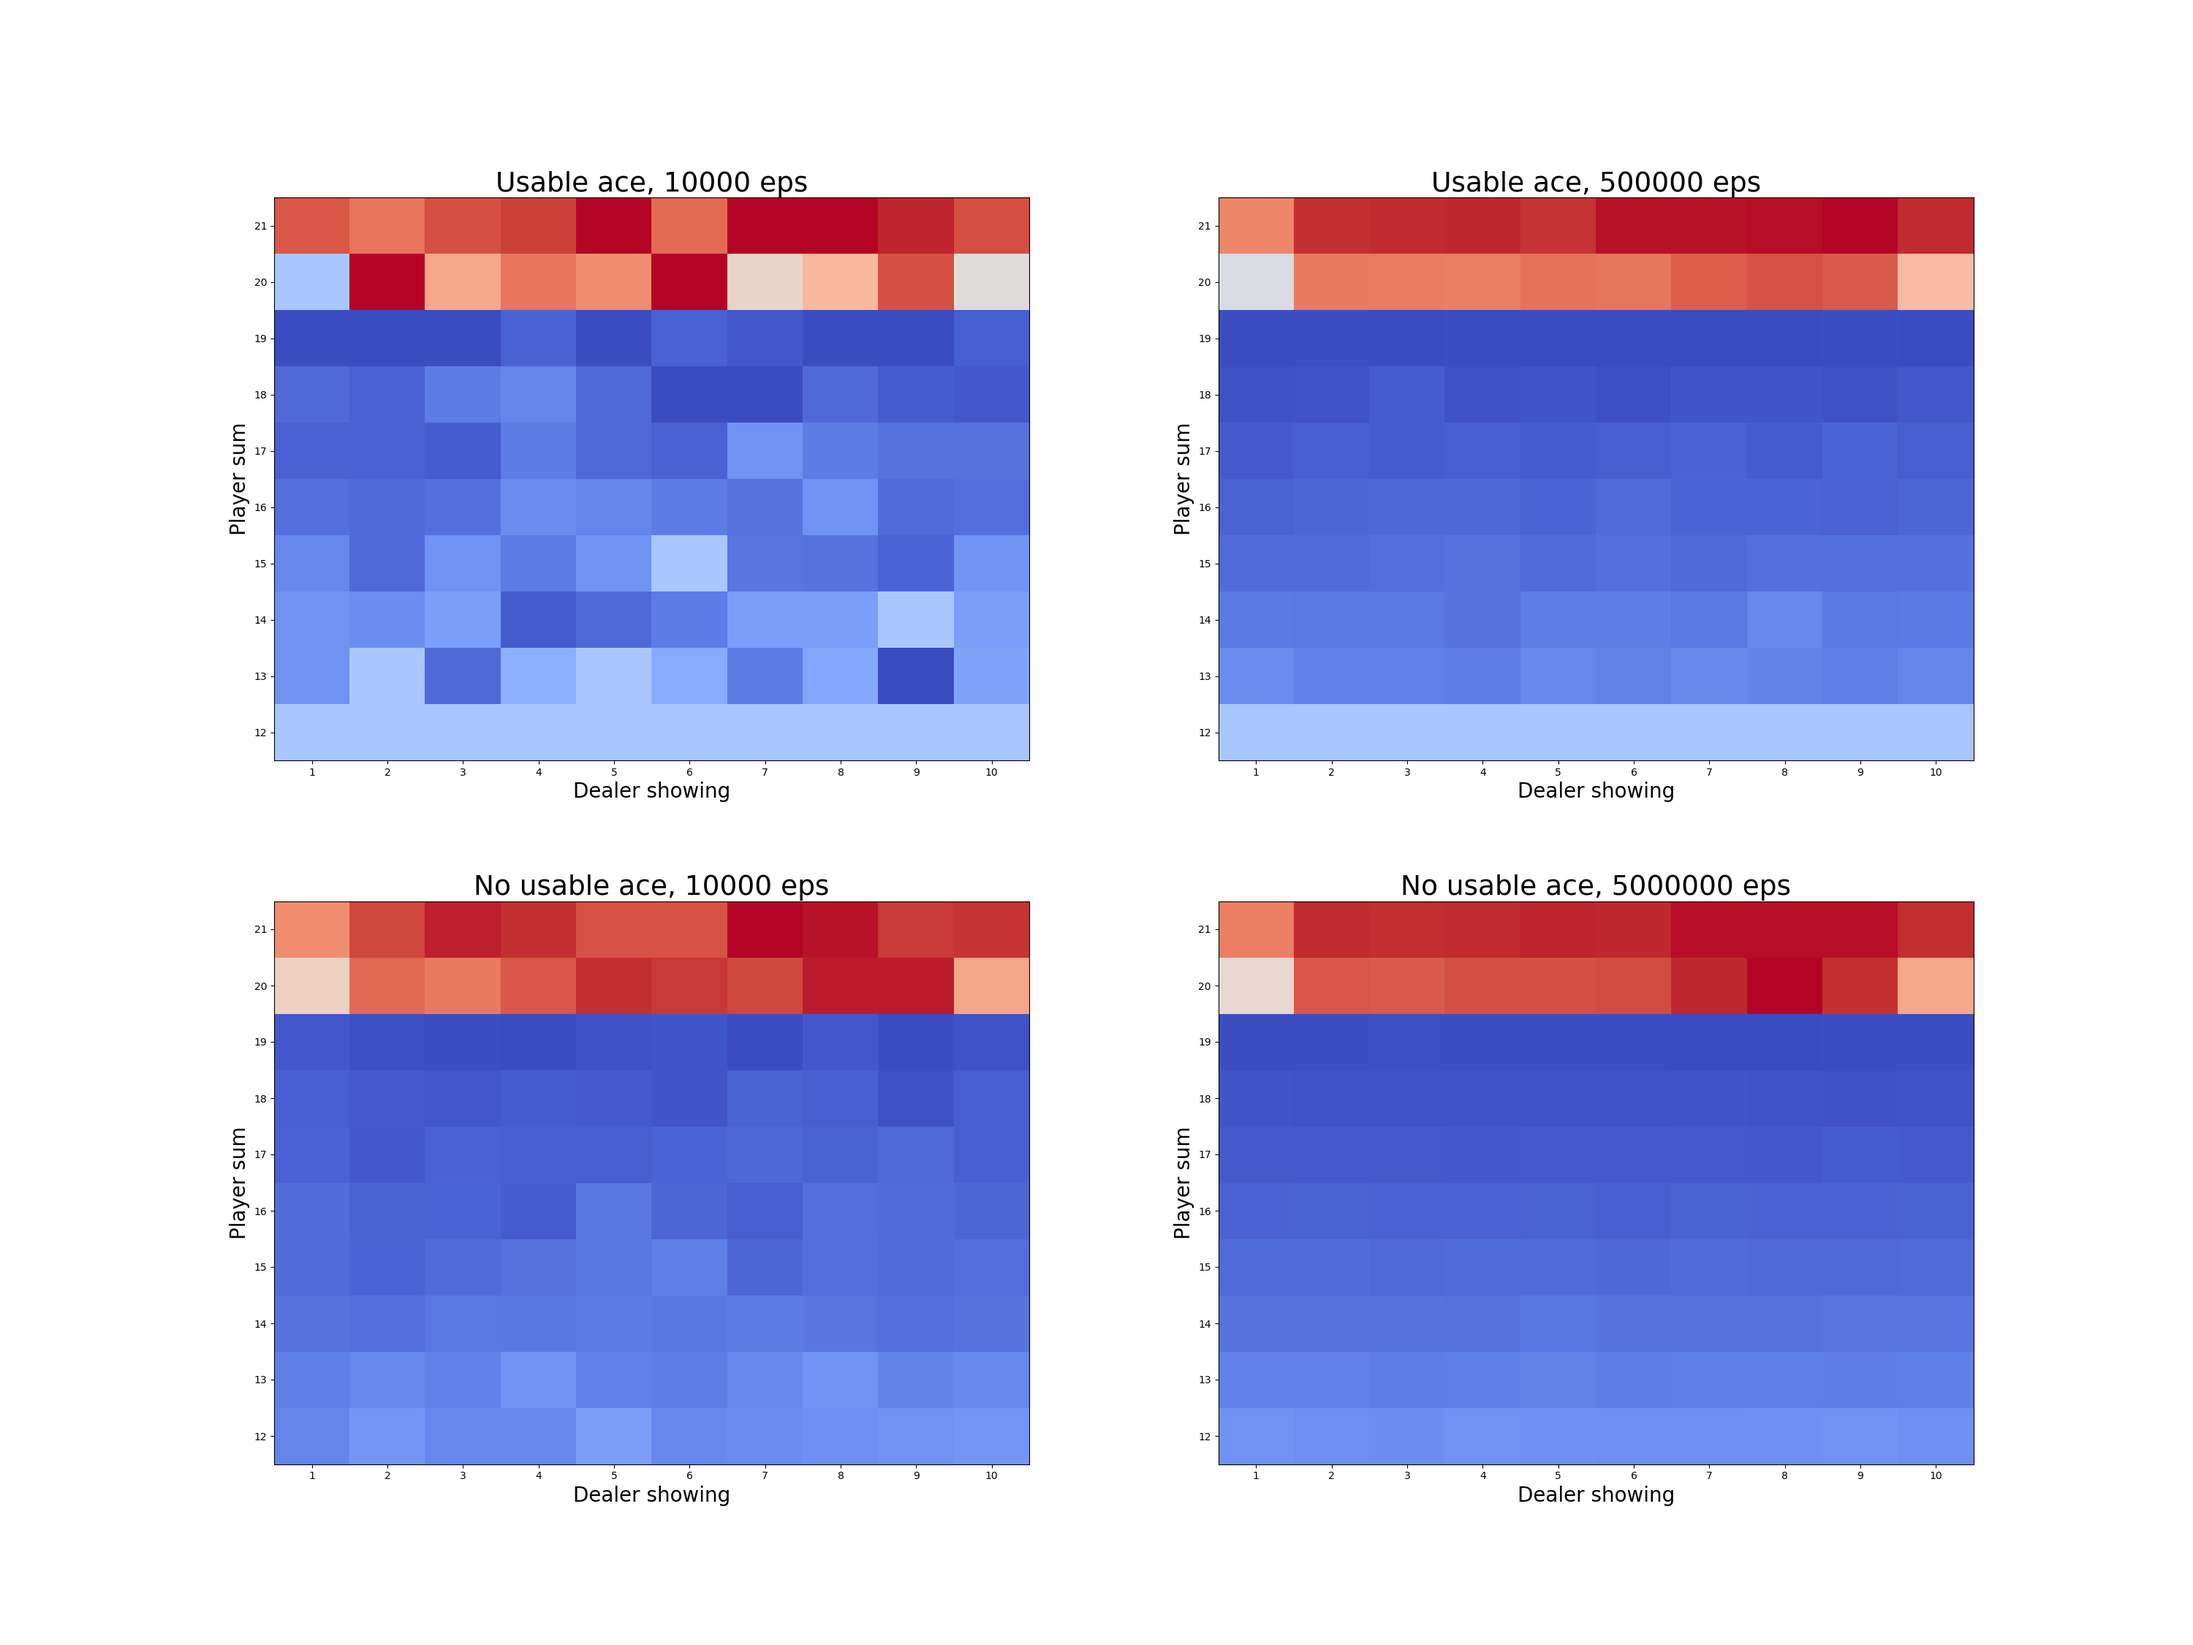
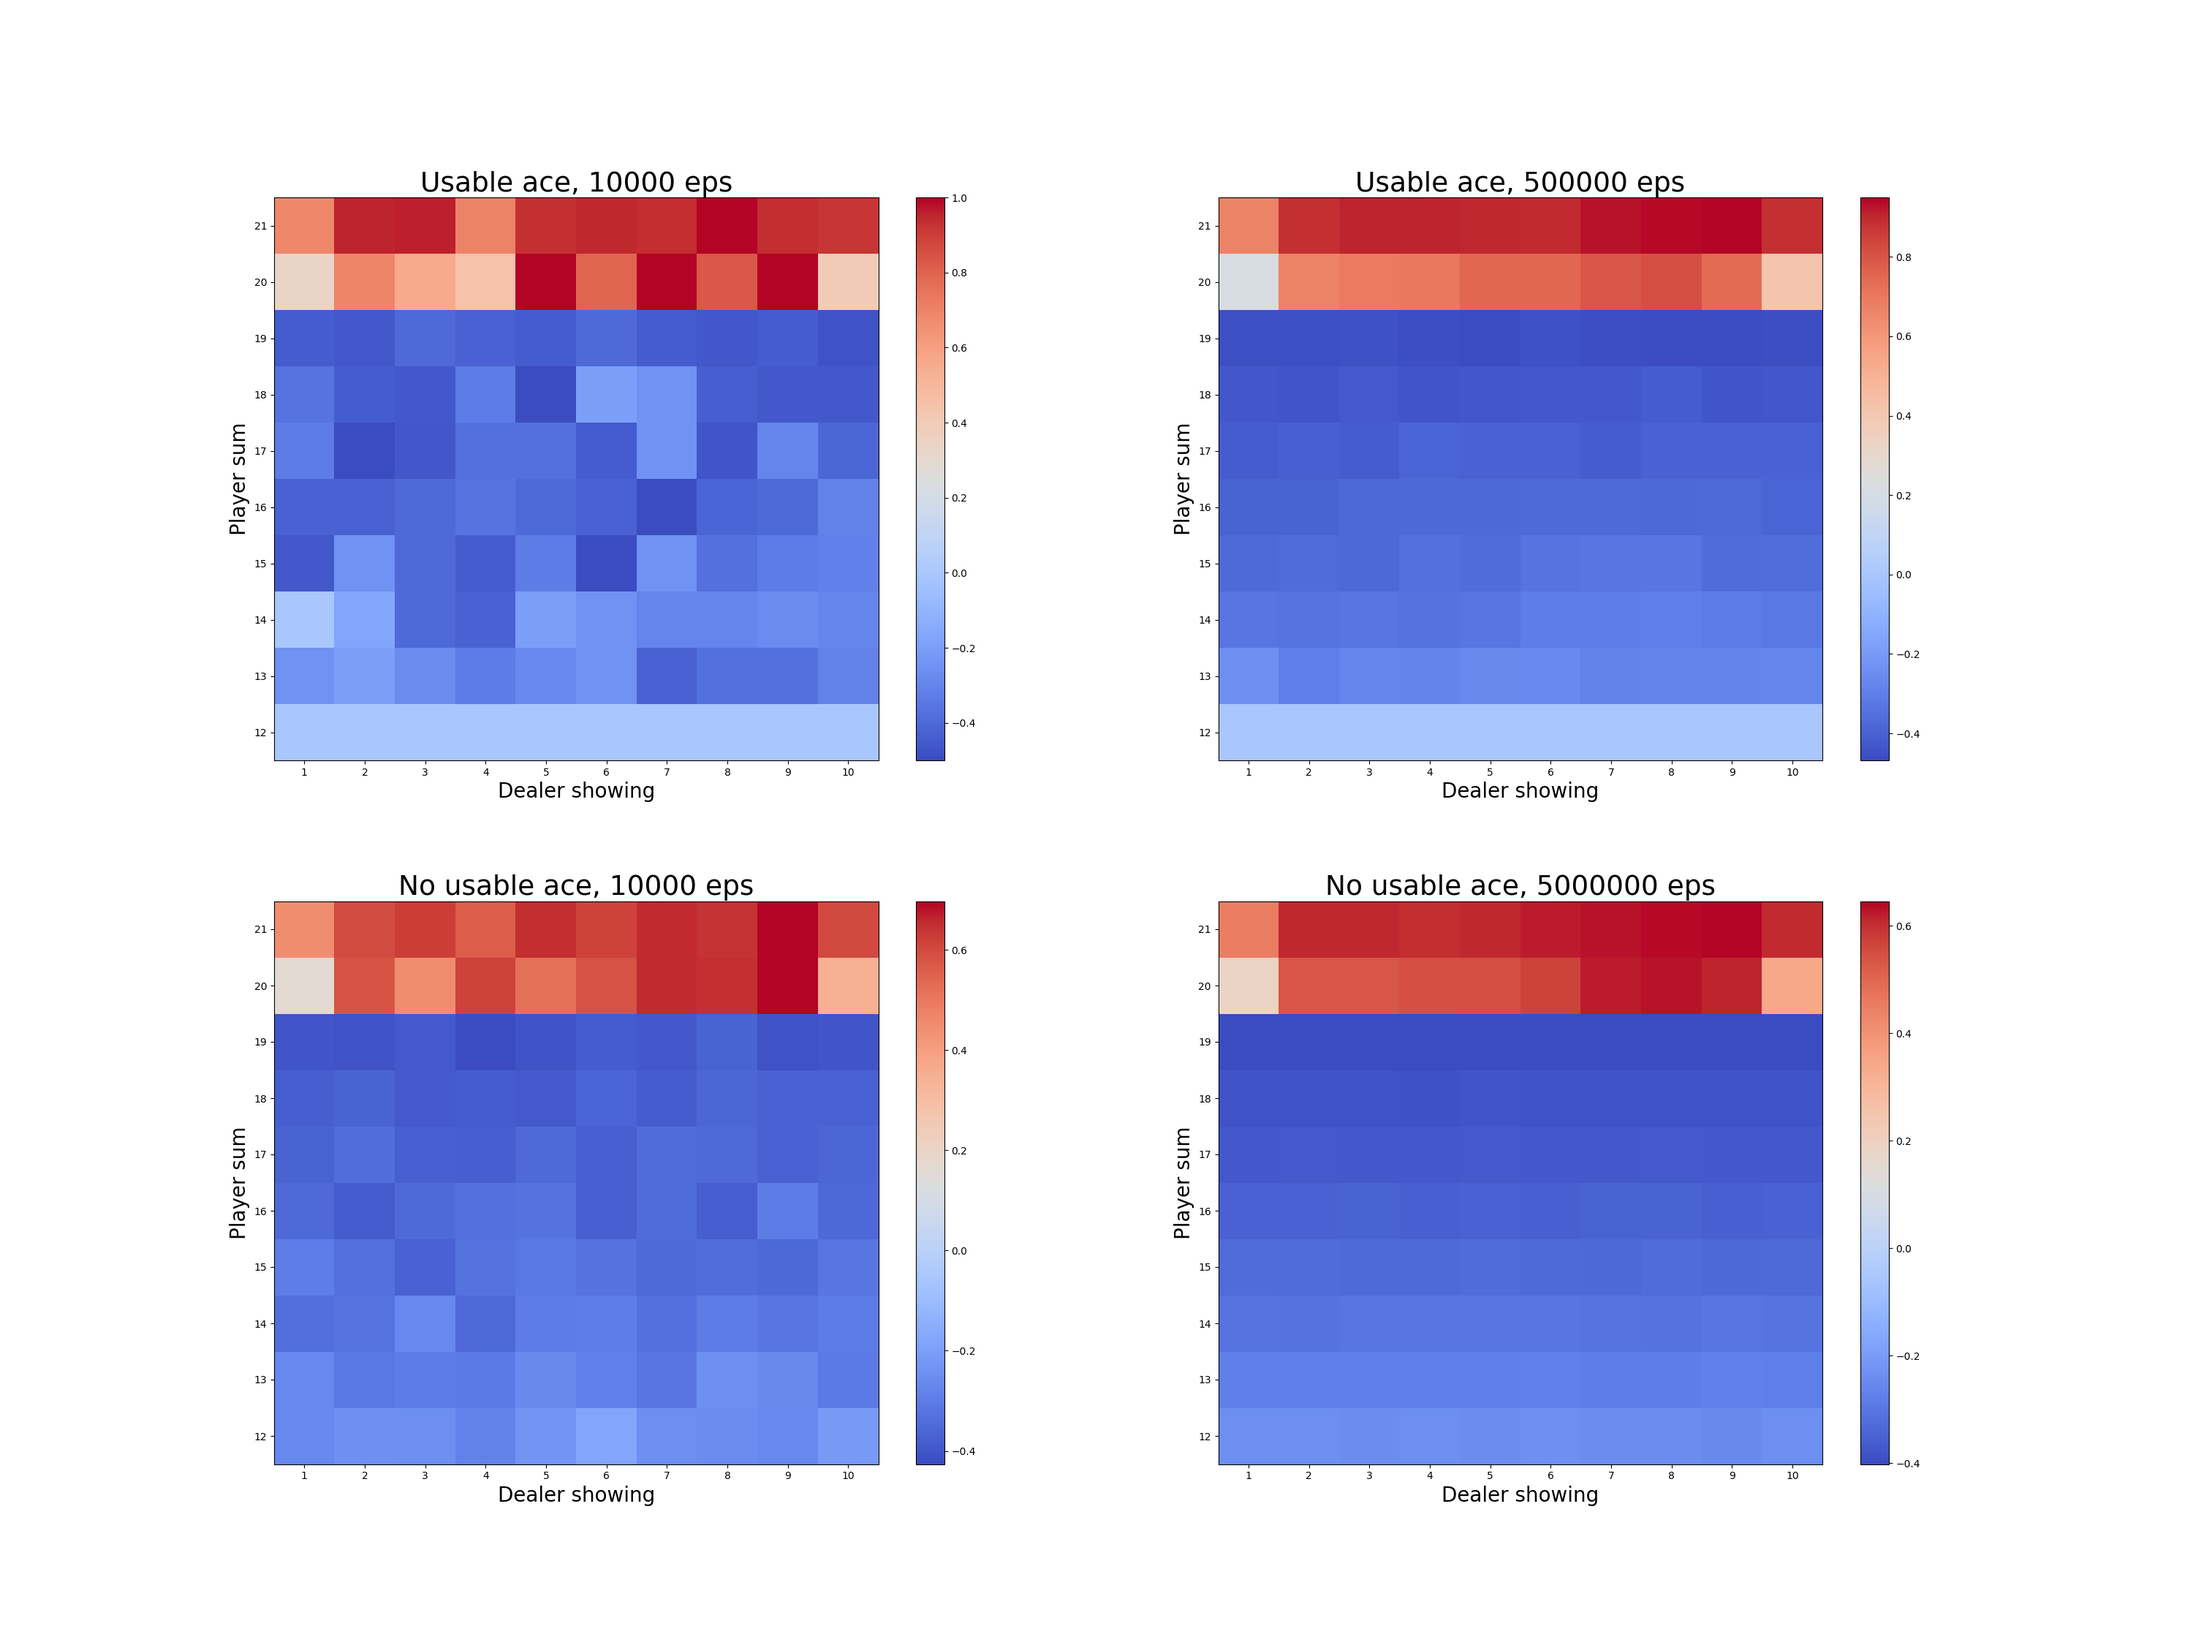
update blackjack.py

diff --git a/chapter-5/blackjack.py b/chapter-5/blackjack.py
@@ -152,20 +152,22 @@ if __name__ == '__main__':
     titles = ['Usable ace, 10000 eps', 'Usable ace, 500000 eps', 'No usable ace, 10000 eps', 'No usable ace, 5000000 eps']
 
     for state, ax, title in zip(states, axes, titles):
-        ax.pcolor(state, cmap=cm.coolwarm)
+        pc = ax.pcolor(state, cmap=cm.coolwarm)
         ax.set_title(title, fontsize=27)
 
         ax.set_ylabel('Player sum', fontsize=20)
         y_ticks_loc = range(12, 22)
-        ystart, yend = ax.get_ylim()
-        ax.set_yticks(np.arange(ystart, yend) + 0.5, minor=False)
+        y_start, y_end = ax.get_ylim()
+        ax.set_yticks(np.arange(y_start, y_end) + 0.5, minor=False)
         ax.set_yticklabels(y_ticks_loc)
 
         ax.set_xlabel('Dealer showing', fontsize=20)
         x_ticks_loc = range(1, 11)
-        xstart, xend = ax.get_xlim()
-        ax.set_xticks(np.arange(xstart, xend) + 0.5, minor=False)
+        x_start, x_end = ax.get_xlim()
+        ax.set_xticks(np.arange(x_start, x_end) + 0.5, minor=False)
         ax.set_xticklabels(x_ticks_loc)
+
+        fig.colorbar(pc, ax=ax)
 
     plt.savefig('./blackjack_first_visit_MC.png')
     plt.close()
